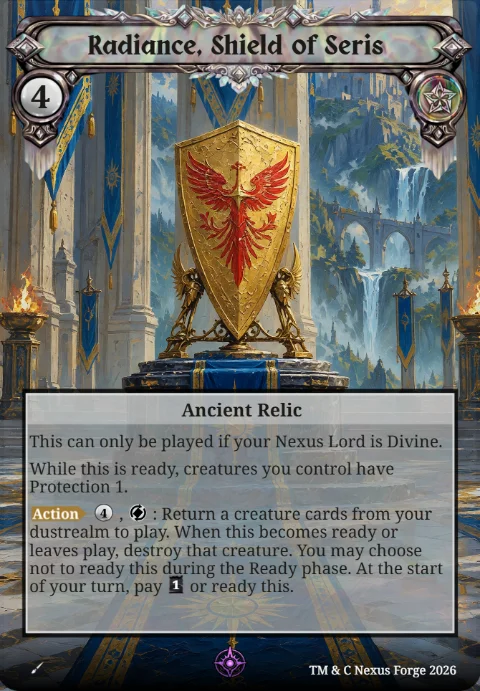
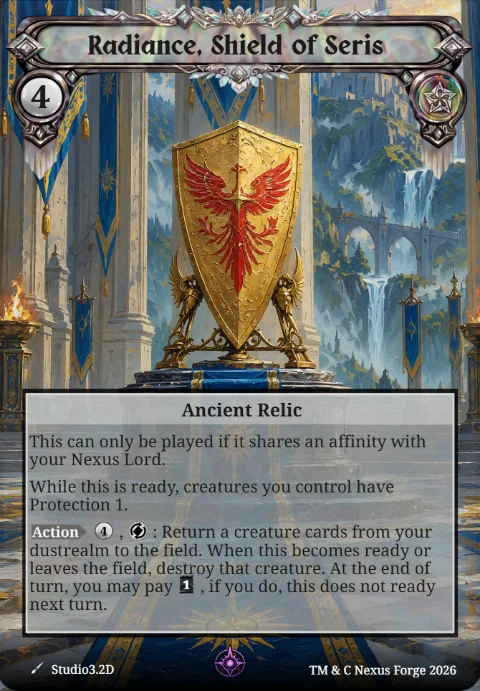
Resolve re-homed/renamed card duplicates (Radiance, Oath Cinche, Silverdawn)
Kept the user rebuilds and removed every stale twin. DB: deleted the old
Radiance and two old Oath Cinche rows, re-keyed the keepers to their
Prismatic home so the editor links them and they cannot re-spawn dupes.
Card-data files: removed Radiance from Divinity and The Oath Cinche from
Corruption (both live in Prismatic now) and renamed Silverdawn Captain
to Silverdawn Officer. Each of the three is now a single, correctly-filed
card; the only same-name pair left is the two legit Ursari tokens.

diff --git a/src/data/cardDraftsSnapshot.ts b/src/data/cardDraftsSnapshot.ts
@@ -236,6 +236,7 @@ export const CARD_DRAFTS_SNAPSHOT: CardDraftSnapshotEntry[] = [
   {"cardKey":"Divinity::Starward Call","name":"Starward Call","type":"Chant","secondaryTypes":["Ritual"],"affinity":"Divinity","cost":1,"rarity":"Common","set":"Awakening","rulesText":"Until end of turn, increase your {intelligence}by 1. Draw a card.","flavorText":"The star-marches of Solenne were taught again after Evershine, this time to children.","showFlavorText":true,"status":"published","imageUrl":"/cards/published/divinity-Starward-Call.webp"},
   {"cardKey":"Divinity::Throne of Burden","name":"Throne of Burden","type":"Enchantment","secondaryTypes":["Rune"],"affinity":"Divinity","cost":3,"rarity":"Uncommon","set":"Awakening","rulesText":"Enemy edicts and ultimates cost 1 additional focus to activate.","flavorText":"No throne in Lumoria was ever built for rest.","showFlavorText":true,"status":"published","imageUrl":"/cards/published/divinity-Throne-of-Burden.webp"},
   {"cardKey":"Divinity::Veiled Oracle","name":"Veiled Oracle","type":"Creature","secondaryTypes":["Spirit","Priest"],"affinity":"Divinity","cost":2,"power":1,"toughness":2,"rarity":"Uncommon","set":"Awakening","rulesText":"Consecrate 2 *(When you have gained 2 or more life this turn, gain this effect.)* Choose a creature you control, it gets +1/+1 until end of turn.","flavorText":"She spoke once before Evershine and once after. Each time, no one listened until it was too late.","showFlavorText":true,"status":"published","imageUrl":"/cards/published/divinity-Veiled-Oracle.webp"},
+  {"cardKey":"Divinity::Vindicator of Seris","name":"Vindicator of Seris","type":"Creature","secondaryTypes":["Human","Knight"],"affinity":"Divinity","cost":3,"power":"X","toughness":3,"rarity":"Common","set":"Awakening","rulesText":"Opener - This enters ready. *(If this was your first action this turn, gain this effect.)*\n\nVindicator of Seris' Attack is X, where X is your {leadership}.","flavorText":"Some knights carried the banner. The Vindicators carried the insult.","showFlavorText":true,"status":"published","imageUrl":"/cards/published/divinity-Vindicator-of-Seris.webp"},
   {"cardKey":"Divinity::Ward of the Penitent","name":"Ward of the Penitent","type":"Creature","secondaryTypes":["Lumyn","Warrior"],"affinity":"Divinity","cost":2,"power":2,"toughness":2,"rarity":"Common","set":"Awakening","rulesText":"This gets +1/+1 if your {leadership}is 4 or greater.","flavorText":"The first shield raised after Evershine was not for a lord, but for the man who had buried his sons.","showFlavorText":true,"status":"published","imageUrl":"/cards/published/divinity-Ward-of-the-Penitent.webp"},
   {"cardKey":"Divinity::Warden of Solreach","name":"Warden of Solreach","type":"Creature","secondaryTypes":["Lumyn","Knight"],"affinity":"Divinity","cost":4,"power":3,"toughness":4,"rarity":"Uncommon","set":"Awakening","rulesText":"Prepared, Consecrate 2 *(When you have gained 2 or more life this turn, gain this effect.)* Put a Ward counter on this. \n\n{ascendeddivinity}This gets +1/+1.","flavorText":"The gates held because the Wardens did.","showFlavorText":true,"status":"published","imageUrl":"/cards/published/divinity-Warden-of-Solreach.webp"},
   {"cardKey":"Primal::Banner of Elowen","name":"Banner of Elowen","type":"Enchantment","secondaryTypes":["Rune"],"affinity":"Primal","cost":3,"rarity":"Rare","set":"Awakening","rulesText":"Increase your {leadership}by 1. \n\nCreatures you control gain +1/+1.","flavorText":"Even the fiercest clans bow their heads when her colors pass.","showFlavorText":true,"status":"published","imageUrl":"/cards/published/primal-Banner-of-Elowen.webp"},
@@ -312,13 +313,12 @@ export const CARD_DRAFTS_SNAPSHOT: CardDraftSnapshotEntry[] = [
   {"cardKey":"Prismatic::Nexus Warden","name":"Nexus Warden","type":"Creature","secondaryTypes":["Prismari","Construct"],"affinity":"Prismatic","cost":5,"power":3,"toughness":5,"rarity":"Rare","set":"Awakening","rulesText":"Reach\n\nWhen this is summoned, draw a card. \n\n{ascendedprismatic}At the start of the turn, draw a card then discard a card.","showFlavorText":true,"status":"published","imageUrl":"/cards/published/prismatic-Nexus-Warden.webp"},
   {"cardKey":"Prismatic::Prismari Forger","name":"Prismari Forger","type":"Creature","secondaryTypes":["Prismari","Mite"],"affinity":"Prismatic","cost":2,"power":1,"toughness":1,"rarity":"Common","set":"Awakening","rulesText":"When this is summoned, you may choose an Armament you control and attach it to you or a creature you control without paying its Arm cost.","showFlavorText":true,"status":"published","imageUrl":"/cards/published/prismatic-Prismari-Forger.webp"},
   {"cardKey":"Prismatic::Prismward Arbiter","name":"Prismward Arbiter","type":"Creature","secondaryTypes":["Prismari","Sphinx"],"affinity":"Prismatic","cost":2,"power":2,"toughness":2,"rarity":"Uncommon","set":"Awakening","rulesText":"Soar\n\nCards can't cost less than {resonance:2} to cast.","flavorText":"To cast beneath its gaze is to accept the cost of truth.","showFlavorText":true,"status":"published","imageUrl":"/cards/published/prismatic-Prismward-Arbiter.webp"},
-  {"cardKey":"Prismatic::Radiance, Shield of Seris","name":"Radiance, Shield of Seris","type":"Ancient Relic","secondaryTypes":[],"affinity":"Prismatic","cost":4,"rarity":"Epic","set":"Awakening","rulesText":"This can only be played if your Nexus Lord is Divine. \n\nWhile this is ready, creatures you control have Protection 1. \n\n{actiondivinity} {resonance:4}, {exhaust}: Return a creature cards from your dustrealm to play. When this becomes ready or leaves play, destroy that creature. You may choose not to ready this during the Ready phase. At the start of your turn, pay {focus:1} or ready this.","showFlavorText":true,"status":"published","imageUrl":"/cards/published/prismatic-Radiance-Shield-of-Seris.webp"},
+  {"cardKey":"Prismatic::Radiance, Shield of Seris","name":"Radiance, Shield of Seris","type":"Ancient Relic","secondaryTypes":[],"affinity":"Prismatic","cost":4,"rarity":"Epic","set":"Awakening","rulesText":"This can only be played if it shares an affinity with your Nexus Lord. \n\nWhile this is ready, creatures you control have Protection 1. \n\n{actionprismatic}{resonance:4},{exhaust}: Return a creature cards from your dustrealm to the field. When this becomes ready or leaves the field, destroy that creature. At the end of turn, you may pay {focus:1}, if you do, this does not ready next turn.","showFlavorText":true,"status":"published","imageUrl":"/cards/published/prismatic-Radiance-Shield-of-Seris.webp"},
   {"cardKey":"Prismatic::Rune-Engraved Aegis","name":"Rune-Engraved Aegis","type":"Relic","secondaryTypes":["Armament"],"affinity":"Prismatic","cost":2,"rarity":"Uncommon","set":"Awakening","rulesText":"Armed creature gains Resistance to an affinity of your choice. \n\n{actionprismatic} Arm 2. \n\nArmed Nexus Lord gains Resistance to an affinity of your choice. \n\n{actionprismatic} Arm 4.","showFlavorText":true,"status":"published","imageUrl":"/cards/published/prismatic-Rune-Engraved-Aegis.webp"},
   {"cardKey":"Prismatic::Shardforge Overseer","name":"Shardforge Overseer","type":"Creature","secondaryTypes":["Prismari","Construct"],"affinity":"Prismatic","cost":3,"power":3,"toughness":3,"rarity":"Uncommon","set":"Awakening","rulesText":"The first time each turn your {intelligence}or {leadership}increases, conjure a 1/1 prismatic Construct.","flavorText":"Its presence alone teaches the shards where to gather.","showFlavorText":true,"status":"published","imageUrl":"/cards/published/prismatic-Shardforge-Overseer.webp"},
   {"cardKey":"Prismatic::Shardling Skitterer","name":"Shardling Skitterer","type":"Creature","secondaryTypes":["Prismari","Beast"],"affinity":"Prismatic","cost":3,"power":2,"toughness":2,"rarity":"Common","set":"Awakening","rulesText":"Rush*(This enters the field ready and isn't Bound.)*","flavorText":"They don't flee danger, they study it at speed.","showFlavorText":true,"status":"published","imageUrl":"/cards/published/prismatic-Shardling-Skitterer.webp"},
   {"cardKey":"Prismatic::Spiked Pauldrons","name":"Spiked Pauldrons","type":"Relic","secondaryTypes":["Armament"],"affinity":"Prismatic","cost":2,"rarity":"Common","set":"Awakening","rulesText":"Armed creature gets +X/+0 where X is your {leadership}. \n\n{actionprismatic} Arm 2. *(Choose a creature you control and attach this to it. Arm only as a ritual.)*","showFlavorText":true,"status":"published","imageUrl":"/cards/published/prismatic-Spiked-Pauldrons.webp"},
-  {"cardKey":"Prismatic::The Oath Cinch","name":"The Oath Cinch","type":"Ancient Relic","secondaryTypes":["Rune"],"affinity":"Prismatic","cost":4,"rarity":"Epic","set":"Awakening","rulesText":"This can only be played if your Nexus Lord is Corrupt. \n\nWhen this enters and at the start of the turn, choose a creature and put an Oath counter on it. When a creature you control with an Oath counter deals combat damage to an Enemy, Siphon 1. \n\n{actioncorruption}{resonance:5}, {exhaust}: Choose a creature with an Oath counter on it and gain control of it for as long as this remains exhausted. You may choose to not ready this at the start of the turn.","showFlavorText":true,"status":"published","imageUrl":"/cards/published/prismatic-The-Oath-Cinch.webp"},
-  {"cardKey":"Prismatic::The Oath Cinche","name":"The Oath Cinche","type":"Ancient Relic","secondaryTypes":[],"affinity":"Prismatic","cost":4,"rarity":"Epic","set":"Awakening","rulesText":"This can only be played if your Nexus Lord is Corrupt. \n\nWhen this enters and at the start of the turn, choose a creature and put an Oath counter on it. When a creature you control with a Corruption counter deals combat damage to an Enemy, Siphon 1. \n\n{actioncorruption}{resonance:5}, {exhaust}: Choose a creature with a Corruption counter on it and gain control of it for as long as this remains expended. You may choose to not ready this at the start of the turn.","showFlavorText":true,"status":"published","imageUrl":"/cards/published/prismatic-The-Oath-Cinche.webp"},
+  {"cardKey":"Prismatic::The Oath Cinche","name":"The Oath Cinche","type":"Ancient Relic","secondaryTypes":[],"affinity":"Prismatic","cost":4,"rarity":"Epic","set":"Awakening","rulesText":"This can only be played if this shares an affinity with your Nexus Lord. \n\nWhen this enters the field and at the start of the turn, choose a creature and put an Oath counter on it. When a creature you control with an Oath counter deals combat damage to an enemy, Siphon 1. \n\n{actionprismatic}{resonance:5},{exhaust}: Choose a creature with an Oath counter on it and gain control of it for as long as this remains expended. You may choose to not ready this at the start of the turn.","showFlavorText":true,"status":"published","imageUrl":"/cards/published/prismatic-The-Oath-Cinche.webp"},
   {"cardKey":"Prismatic::Tinkerer's Cache","name":"Tinkerer's Cache","type":"Relic","secondaryTypes":[],"affinity":"Prismatic","cost":2,"rarity":"Common","set":"Awakening","rulesText":"This enters exhausted. \n\nWhen this enters, draw a card. \n\n{actionprismatic}{resonance:2}, {exhaust}: Return this to your hand. ","flavorText":"Every shard is a problem waiting to be solved.","showFlavorText":true,"status":"published","imageUrl":"/cards/published/prismatic-Tinkerer-s-Cache.webp"},
   {"cardKey":"Prismatic::True-Light Channeler","name":"True-Light Channeler","type":"Creature","secondaryTypes":["Prismari","Spellblade"],"affinity":"Prismatic","cost":4,"power":3,"toughness":3,"rarity":"Uncommon","set":"Awakening","rulesText":"The first time each turn a source you control would inflict non-combat damage, you may have it inflict damage equal to your {intelligence}instead.","flavorText":"Light is harmless, until they decide what shape it should take.","showFlavorText":true,"status":"published","imageUrl":"/cards/published/prismatic-True-Light-Channeler.webp"},
   {"cardKey":"Prismatic::True-Light Colossus","name":"True-Light Colossus","type":"Creature","secondaryTypes":["Prismari","Giant"],"affinity":"Prismatic","cost":7,"power":5,"toughness":5,"rarity":"Uncommon","set":"Awakening","rulesText":"When this is summoned, choose another creature and banish it until this leaves the field. Then choose one keyword ability that creature has. While that creature remains banished this way, this has the chosen ability.","showFlavorText":true,"status":"published","imageUrl":"/cards/published/prismatic-True-Light-Colossus.webp"},

diff --git a/src/data/arcaneCards.ts b/src/data/arcaneCards.ts
@@ -28,7 +28,7 @@ export const ARCANE_CARDS: CardTemplate[] = [
   { name: 'Beast of Eldavara', type: 'Creature', affinity: 'Arcane', cost: 4, power: 4, toughness: 4, rarity: 'Common', set: SET, rulesText: 'When you activate an edict, this gets +1/+1 and Steadfast until end of turn.', flavorText: 'To study the aether is to walk the line between thought and form.', imageUrl: img('Beast of Eldavara') },
   { name: 'Silverdawn Recruits', type: 'Creature', affinity: 'Arcane', cost: 4, power: 2, toughness: 2, rarity: 'Common', set: SET, rulesText: 'When this is summoned, conjure two 1/1 arcane Elf Soldiers. Those soldiers enter ready.', flavorText: 'They do not march for glory, but for understanding — every formation a question, every victory an answer.', imageUrl: img('Silverdawn Recruits') },
   { name: 'Arcanum Adept', type: 'Creature', affinity: 'Arcane', cost: 4, power: 2, toughness: 3, rarity: 'Common', set: SET, rulesText: 'Annotate 2 (When this is summoned, look at the top X cards of your deck. You may put one of those cards in your hand, and the rest on the bottom in any order.) Ascended — Annotate 3 instead.', imageUrl: img('Arcanum Adept') },
-  { name: 'Silverdawn Captain', type: 'Creature', affinity: 'Arcane', cost: 3, power: 2, toughness: 2, rarity: 'Uncommon', set: SET, rulesText: 'Other Soldiers you control have +1/+1. When this is summoned, if your Resonance is 3 or greater, conjure a 1/1 arcane Elf Soldier.', imageUrl: img('Silverdawn Captain') },
+  { name: 'Silverdawn Officer', type: 'Creature', affinity: 'Arcane', cost: 3, power: 2, toughness: 2, rarity: 'Uncommon', set: SET, rulesText: 'Other Soldiers you control have +1/+1. When this is summoned, if your Resonance is 3 or greater, conjure a 1/1 arcane Elf Soldier.', imageUrl: img('Silverdawn Officer') },
   { name: 'Frost-Wield Savant', type: 'Creature', affinity: 'Arcane', cost: 3, power: 2, toughness: 4, rarity: 'Uncommon', set: SET, rulesText: 'The first time each turn an enemy creature become exhausted by a chant or ability you control, Learn 1.', flavorText: 'He studies stillness, for in stillness, perfection reveals itself.', imageUrl: img('Frost-Wield Savant') },
   { name: 'Codex Reconstructor', type: 'Creature', affinity: 'Arcane', cost: 3, power: 2, toughness: 2, rarity: 'Uncommon', set: SET, rulesText: 'Action, 2 Focus, Banish this from your dustrealm: Choose a chant in your dustrealm with cost less than your Resonance and return it to your hand.', flavorText: 'Every loss is an edit, not an erasure.', imageUrl: img('Codex Reconstructor') },
   { name: 'Echobound Hawk', type: 'Creature', affinity: 'Arcane', cost: 2, power: 2, toughness: 2, rarity: 'Uncommon', set: SET, rulesText: 'Soar. When this is summoned, gain 1 focus.', flavorText: 'Its flight traces the thought you should have had.', imageUrl: img('Echobound Hawk') },

diff --git a/src/data/corruptionCards.ts b/src/data/corruptionCards.ts
@@ -63,5 +63,4 @@ export const CORRUPTION_CARDS: CardTemplate[] = [
   // Printed as part of the "Awakening: Prismatic" sheet (see prismaticCards.ts)
   // as one of a cross-affinity Ancient Relic cycle, but keyed here by its own
   // printed Corruption affinity so the per-affinity card pools stay accurate.
-  { name: 'The Oath Cinche', type: 'Ancient Relic', affinity: 'Corruption', cost: 4, rarity: 'Epic', set: SET, rulesText: 'This can only be played if this shares an affinity with you. When this enters and at the start of the turn, choose a creature and put a Corruption counter on it. When a creature you control with a Corruption counter deals combat damage to an Enemy, Siphon 1. Action, 5, Exhaust this: Choose a creature with a Corruption counter on it and gain control of it for as long as this remains expended. You may choose to not ready this at the start of the turn.', imageUrl: img('The Oath Cinche') },
 ];

diff --git a/src/data/divinityCards.ts b/src/data/divinityCards.ts
@@ -64,5 +64,4 @@ export const DIVINITY_CARDS: CardTemplate[] = [
   // Printed as part of the "Awakening: Prismatic" sheet (see prismaticCards.ts)
   // as one of a cross-affinity Ancient Relic cycle, but keyed here by its own
   // printed Divinity affinity so the per-affinity card pools stay accurate.
-  { name: 'Radiance, Shield of Seris', type: 'Ancient Relic', affinity: 'Divinity', cost: 4, rarity: 'Epic', set: SET, rulesText: 'This can only be played if it shares an affinity with you. While this is ready, creatures you control have Protection 1. Action, 4, Exhaust this: Return up to two creature cards from your dustrealm to play. When this becomes ready or leaves play, destroy those creatures. At the start of your turn, pay 1 or ready this.', imageUrl: img('Radiance, Shield of Seris') },
 ];
